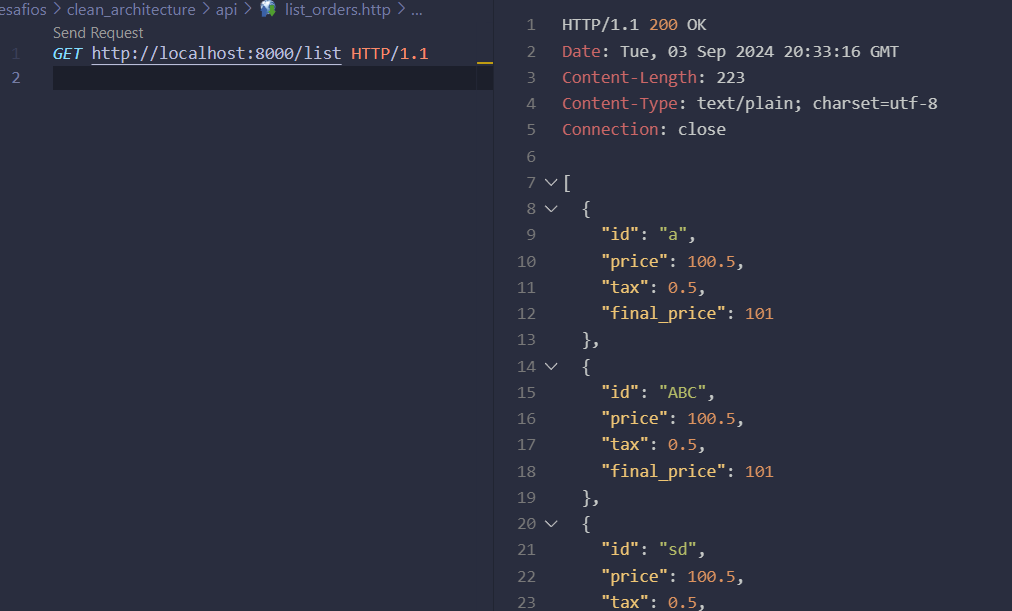
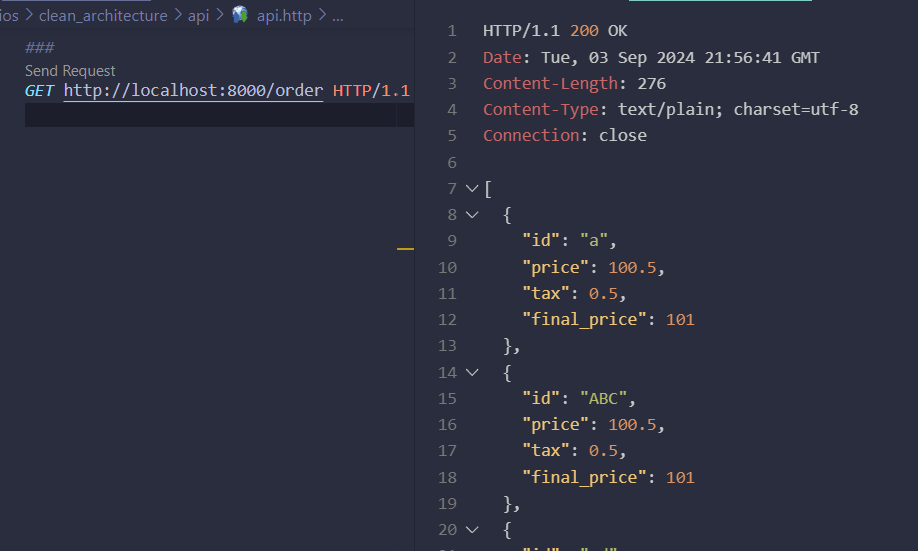
Ajustes na API web e documentação.

diff --git a/desafios/clean_architecture/internal/infra/web/webserver/webserver.go b/desafios/clean_architecture/internal/infra/web/webserver/webserver.go
@@ -1,7 +1,9 @@
 package webserver
 
 import (
+	"fmt"
 	"net/http"
+	"strings"
 
 	"github.com/go-chi/chi/v5"
 	"github.com/go-chi/chi/v5/middleware"
@@ -9,20 +11,31 @@ import (
 
 type WebServer struct {
 	Router        chi.Router
-	Handlers      map[string]http.HandlerFunc
+	GetHandlers   map[string]http.HandlerFunc
+	PostHandlers  map[string]http.HandlerFunc
 	WebServerPort string
 }
 
 func NewWebServer(serverPort string) *WebServer {
+
 	return &WebServer{
 		Router:        chi.NewRouter(),
-		Handlers:      make(map[string]http.HandlerFunc),
+		GetHandlers:   make(map[string]http.HandlerFunc),
+		PostHandlers:  make(map[string]http.HandlerFunc),
 		WebServerPort: serverPort,
 	}
+
 }
 
-func (s *WebServer) AddHandler(path string, handler http.HandlerFunc) {
-	s.Handlers[path] = handler
+func (s *WebServer) AddHandler(method string, path string, handler http.HandlerFunc) {
+	switch strings.ToUpper(method) {
+	case "POST":
+		s.PostHandlers[path] = handler
+	case "GET":
+		s.GetHandlers[path] = handler
+	default:
+		panic(fmt.Errorf("invalid method %s ", method))
+	}
 }
 
 // loop through the handlers and add them to the router
@@ -30,8 +43,11 @@ func (s *WebServer) AddHandler(path string, handler http.HandlerFunc) {
 // start the server
 func (s *WebServer) Start() {
 	s.Router.Use(middleware.Logger)
-	for path, handler := range s.Handlers {
-		s.Router.Handle(path, handler)
+	for path, handler := range s.GetHandlers {
+		s.Router.Get(path, handler)
+	}
+	for path, handler := range s.PostHandlers {
+		s.Router.Post(path, handler)
 	}
 	http.ListenAndServe(s.WebServerPort, s.Router)
 }

diff --git a/desafios/clean_architecture/cmd/ordersystem/main.go b/desafios/clean_architecture/cmd/ordersystem/main.go
@@ -55,8 +55,8 @@ func main() {
 	// WEB
 	webserver := webserver.NewWebServer(cfg.WebServerPort)
 	webOrderHandler := NewWebOrderHandler(db, eventDispatcher)
-	webserver.AddHandler("/order", webOrderHandler.Create)
-	webserver.AddHandler("/list", webOrderHandler.ListAll)
+	webserver.AddHandler("POST", "/order", webOrderHandler.Create)
+	webserver.AddHandler("GET", "/order", webOrderHandler.ListAll)
 
 	fmt.Println("Starting web server on port", cfg.WebServerPort)
 	go webserver.Start()

diff --git a/desafios/clean_architecture/readme.md b/desafios/clean_architecture/readme.md
@@ -12,7 +12,8 @@ Faz parte do desafio implementar a listagem das ordens também nos três canais 
 
 A lógica Core é separada dos canais de interação e a solução completa envolve a utilização de várias tecnologias, docker-compose, rabbitMQ, MySQL, GraphQL, gRPC, Makefile, bibliotecas Go: Viper, protoc, go-wire, SqlC, gqlgen, go migrate e Evans.
 
-A solução final foi a listagem de ordens implementada, exposta na web via `/list`, consultada via grapqh com uma query do tipo: 
+A solução final foi a listagem de ordens implementada, exposta na web via GET `/order`, 
+consultada via grapqh com uma query do tipo: 
 ```
 query listOrders {
   listOrders{
@@ -36,7 +37,23 @@ Toda vez que a listagem é chamada, (assim como já estava implementada para a c
 
 
 # Execução
-Via Make file com:
+Subir RabbitMQ e MySQL via docker-compose:
+
+### Preparar ambiente
+```bash
+docker-compose up -d
+```
+
+Preparar o BD via migration:
+```bash
+make migrate
+```
+Isto deve criar a tabela de ordens (orders).
+Use 'make migratedown' para apagar a tabela.
+
+
+### Iniciar servidor go
+Iniciar servidor go via Makefile com:
 ```bash
 make run 
 ```
@@ -52,8 +69,51 @@ Starting gRPC server on port 50051
 Starting GraphQL server on port 8080
 ```
 
-**Nota:** é preciso configurar a fila ou filas no RabbitMQ e o bind da exchange amq.direct para a(s) mesma(s). A mensagem de criação vai com uma key 'created', enquanto a de listagem vai com uma key 'listed'
 
+
+## Criar ordens
+utilize o arquivo api/api.http para fazer a criação de ordens.
+
+
+### Cliente GraphQL: `http://localhost:8080/`
+
+```graphql
+query listOrders {
+  listOrders{
+    id
+    Price
+    Tax
+    FinalPrice
+  }
+}
+
+mutation createOrder {
+  createOrder(input:{
+    id: "graphql",
+    Price: 10.2,
+    Tax: 0.3,    
+  }){
+		id
+    Price
+    Tax
+    FinalPrice
+  }
+}
+```
+
+
+### RabbitMQ: `http://localhost:15672/`
+```
+usuáro: guest
+senha: guest
+```
+**Nota:** é preciso configurar a fila ou filas no RabbitMQ e o bind da exchange amq.direct para a(s) mesma(s). A mensagem de criação vai com uma key 'created', enquanto a de listagem vai com uma key 'listed'. Veja screenshot no final desta página.
+
+### Client gRPC Evans
+```
+make evans
+```
+Veja screenshot no final desta página.
 
 <br>
 <br>
@@ -90,7 +150,7 @@ Abaixo demonstro um registro das alteraçõe feitas para a implementação de li
         - para executá-los agora é só chamar:
             - `h.uc.listOrders.Execute()`
             - `h.uc.createOrder.Execute(dto)`
-- adicionado arquivo api/list_orders.http
+- renomeado arquivo em api/ para api.http com adição da chamada GET /order
 
 
 ## implementacao graphql
@@ -112,8 +172,8 @@ Abaixo demonstro um registro das alteraçõe feitas para a implementação de li
 <br>
 <br>
 
-# Screenshots
-Chamada web HTTP ao endpoint `/list`:
+# Screenshotslist
+Chamada web HTTP ao endpoint GET `/order`:
 
 ![](./images/web.png)
 
